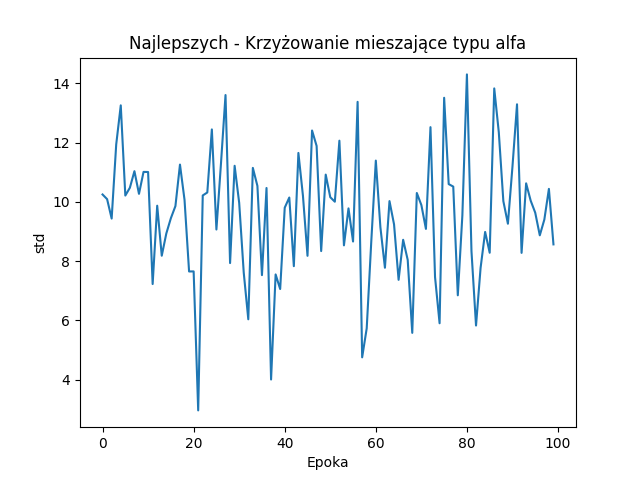
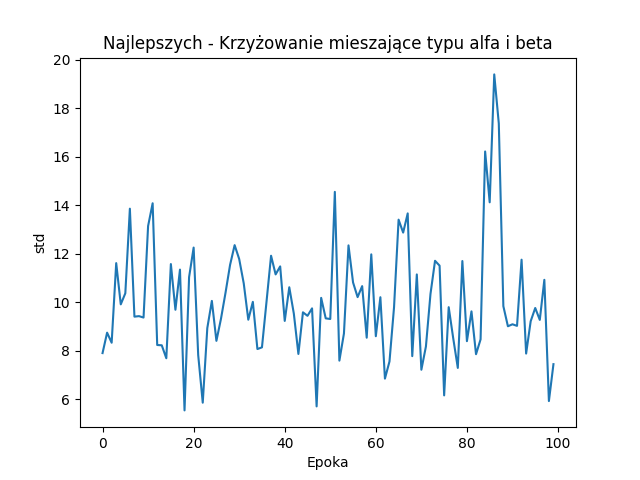
chyba alfa i beta hihi

diff --git a/Helpers/crossingMethods.py b/Helpers/crossingMethods.py
@@ -61,19 +61,34 @@ class LinearCrossover(CrossoverMethod):
 
 
 class BlendCrossoverAlfaBeta(CrossoverMethod):
-    def __init__(self, alpha):
-        self.alpha = alpha
+    def __init__(self, probability):
+        self.probability = probability
 
     def crossover(self, pop: np.ndarray, alpha=0.2):
         n_pop, n_dim = pop.shape
         parents = pop[np.random.choice(n_pop, 2, replace=False)]
-        gen_idx = np.random.randint(0, n_dim)
-        p1_gen = parents[0, gen_idx]
-        p2_gen = parents[1, gen_idx]
-        child1 = parents[0]
-        child2 = parents[1]
-        child1[gen_idx] = (1 - alpha) * p1_gen + alpha * p2_gen
-        child2[gen_idx] = (1 - alpha) * p2_gen + alpha * p1_gen
+        print("RODZIC: ", parents)
+        child1 = np.empty_like(parents[0])
+        child2 = np.empty_like(parents[0]) 
+    
+        if np.random.uniform() < self.probability:
+            alpha = np.random.uniform(low=0, high=1)
+            beta = np.random.uniform(low=0, high=1)
+            
+
+            for i in range(len(parents[0])):
+                x1 = parents[0][i]
+                x2 = parents[1][i]
+                distancia = abs(x1-x2)
+
+                u1 = np.random.uniform(min(x1,x2)-alpha*distancia, max(x1,x2)+beta*distancia)
+                u2 = np.random.uniform(min(x1,x2)-alpha*distancia, max(x1,x2)+beta*distancia)
+
+                child1[i] = u1
+                child2[i] = u2
+
+        print("DZIECKO1: ", child1)
+        print("DZIECKO2: ", child2)
 
         return np.array([child1, child2])
 
